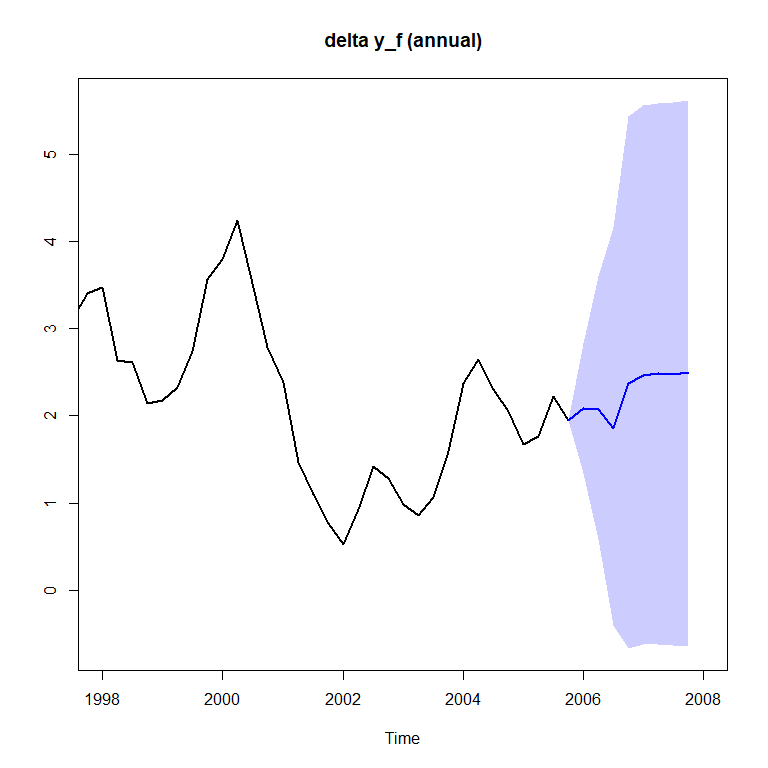
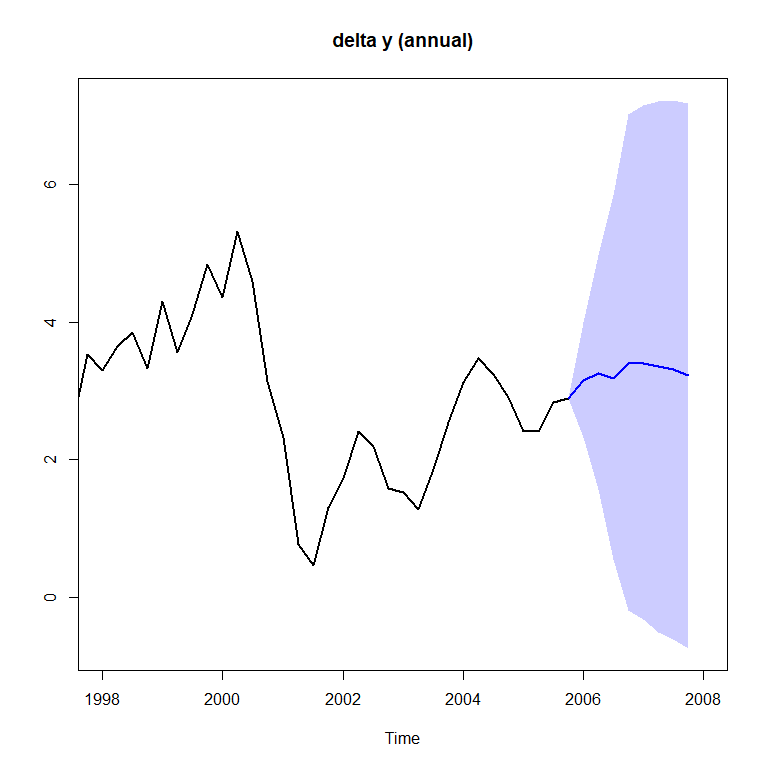
doslad

diff --git a/README.md b/README.md
@@ -105,8 +105,8 @@ $$
 $$
 
 Here $V_0$ is the scale matrix and $m_0\geq k+2$ are the degrees of
-freedom. Since Stan does not allow the usual noninformative prior
-$\left|\Sigma \right|^{-(k+1)/2}$, we will instead specify an
+freedom. Since Stan does not “allow” the usual noninformative prior
+$\left|\Sigma_u \right|^{-(k+1)/2}$, we will instead specify an
 uninformative prior by setting $V_0=(m_0-k-1)\hat{\Sigma}_u$ where
 $\hat{\Sigma}_u$ is the least squares estimate from the VAR($p$)
 (including any potential deterministic regressors), and $m_0=k+2$.
@@ -320,159 +320,176 @@ variables for the future periods and then we fit the model.
 ``` r
 H <- 8
 X_pred <- cbind(rep(1, H), 0)
-fit <- estimate(stan_data, n_chains=4, iter=5000, warmup=2500, H=H, X_pred=X_pred)
+stan_fit <- estimate(stan_data, n_chains=4, iter=5000, warmup=2500, H=H, X_pred=X_pred)
 ```
 
 Let us look at the posterior mean of $\beta$, $\Psi$ and $\Sigma_u$
 
 ``` r
 params <- c("beta", "Psi", "Sigma_u")
-posterior_draws = rstan::extract(fit)
+posterior_draws = rstan::extract(stan_fit)
 
 for (param in params) {
   draws <- posterior_draws[[param]]
   mean_matrix <- round(apply(draws, c(2,3), mean), 2)
-  cat("\n", paste0(param, "_posterior_mean"), "\n")
+  cat("\n", paste0(param, "_posterior_mean (stan estimation)"), "\n")
   print(mean_matrix)
 }
 #> 
-#>  beta_posterior_mean 
+#>  beta_posterior_mean (stan estimation) 
 #>        
 #>          [,1]  [,2]  [,3]  [,4]  [,5]  [,6]  [,7]
 #>    [1,]  0.18  0.03  0.00  0.12  0.08 -0.03  0.00
 #>    [2,] -0.01  0.32  0.07  0.12 -0.09  0.00  0.00
-#>    [3,] -0.01  0.16  0.92 -0.16  0.25  0.04  0.00
+#>    [3,] -0.01  0.16  0.92 -0.16  0.24  0.04  0.00
 #>    [4,]  0.00  0.00  0.00  0.23 -0.09 -0.03  0.00
 #>    [5,]  0.00  0.00  0.00  0.00  0.08  0.02  0.00
-#>    [6,]  0.00  0.00  0.00  0.00  0.09  0.75  0.00
-#>    [7,]  0.00  0.00  0.00  4.80 16.15  0.59  0.95
-#>    [8,]  0.03 -0.01  0.03  0.02 -0.02  0.03  0.00
+#>    [6,]  0.00  0.00  0.00  0.01  0.09  0.75  0.00
+#>    [7,]  0.00  0.00  0.00  4.69 16.28  0.58  0.95
+#>    [8,]  0.03 -0.01  0.03  0.03 -0.02  0.03  0.00
 #>    [9,]  0.00  0.01  0.01  0.00 -0.03 -0.04  0.00
-#>   [10,] -0.07 -0.03 -0.01  0.00  0.18  0.08  0.00
-#>   [11,]  0.00  0.00  0.00  0.12 -0.01  0.05  0.00
+#>   [10,] -0.07 -0.03 -0.01  0.00  0.19  0.08  0.00
+#>   [11,]  0.00  0.00  0.00  0.12 -0.01  0.04  0.00
 #>   [12,]  0.00  0.00  0.00  0.01 -0.05 -0.01  0.00
 #>   [13,]  0.00  0.00  0.00 -0.03  0.05  0.04  0.00
-#>   [14,]  0.00  0.00  0.00  2.16 -1.47  0.34 -0.04
+#>   [14,]  0.00  0.00  0.00  2.26 -1.56  0.34 -0.04
 #>   [15,]  0.01 -0.01  0.00  0.02 -0.02  0.00  0.00
 #>   [16,] -0.02  0.06  0.00  0.00  0.09  0.01  0.00
 #>   [17,] -0.01 -0.01  0.02  0.01  0.01  0.03  0.00
 #>   [18,]  0.00  0.00  0.00  0.07  0.01 -0.01  0.00
 #>   [19,]  0.00  0.00  0.00  0.00  0.02 -0.01  0.00
 #>   [20,]  0.00  0.00  0.00  0.03 -0.02  0.00  0.00
-#>   [21,]  0.00  0.00  0.00 -0.59  0.09 -0.64 -0.01
+#>   [21,]  0.00  0.00  0.00 -0.61  0.07 -0.65 -0.01
 #>   [22,]  0.03 -0.01  0.00 -0.01  0.03  0.01  0.00
 #>   [23,] -0.01  0.17 -0.01  0.00  0.01  0.00  0.00
 #>   [24,]  0.00  0.00 -0.02  0.01 -0.01  0.03  0.00
 #>   [25,]  0.00  0.00  0.00 -0.09  0.01  0.01  0.00
-#>   [26,]  0.00  0.00  0.00  0.00  0.07  0.00  0.00
+#>   [26,]  0.00  0.00  0.00  0.00  0.06  0.00  0.00
 #>   [27,]  0.00  0.00  0.00  0.01 -0.02  0.00  0.00
-#>   [28,]  0.00  0.00  0.00 -0.64 -0.29 -0.20 -0.01
+#>   [28,]  0.00  0.00  0.00 -0.62 -0.28 -0.19 -0.01
 #> 
-#>  Psi_posterior_mean 
+#>  Psi_posterior_mean (stan estimation) 
 #>       
 #>        [,1]  [,2]
 #>   [1,] 2.28  0.33
 #>   [2,] 2.01  1.83
 #>   [3,] 4.93  2.01
-#>   [4,] 2.32 -0.14
-#>   [5,] 1.96  4.56
+#>   [4,] 2.31 -0.14
+#>   [5,] 1.96  4.55
 #>   [6,] 4.29  4.47
-#>   [7,] 3.92 -0.09
+#>   [7,] 3.92 -0.10
 #> 
-#>  Sigma_u_posterior_mean 
+#>  Sigma_u_posterior_mean (stan estimation) 
 #>       
 #>         [,1]  [,2] [,3]  [,4]  [,5]  [,6]  [,7]
-#>   [1,]  2.24 -0.14 0.04  1.05 -0.11  0.01  0.00
-#>   [2,] -0.14  1.27 0.18  0.09  1.76  0.15  0.00
-#>   [3,]  0.04  0.18 0.46  0.04  0.65  0.10  0.00
-#>   [4,]  1.05  0.09 0.04  2.76 -0.67 -0.05  0.00
-#>   [5,] -0.11  1.76 0.65 -0.67  8.43  0.42 -0.01
-#>   [6,]  0.01  0.15 0.10 -0.05  0.42  1.39 -0.01
+#>   [1,]  2.24 -0.13 0.03  1.05 -0.11  0.00  0.00
+#>   [2,] -0.13  1.27 0.18  0.08  1.77  0.15  0.00
+#>   [3,]  0.03  0.18 0.46  0.04  0.66  0.10  0.00
+#>   [4,]  1.05  0.08 0.04  2.76 -0.69 -0.05  0.00
+#>   [5,] -0.11  1.77 0.66 -0.69  8.46  0.42 -0.01
+#>   [6,]  0.00  0.15 0.10 -0.05  0.42  1.39 -0.01
 #>   [7,]  0.00  0.00 0.00  0.00 -0.01 -0.01  0.00
 ```
 
-Lets plot the forecast. Lets select a 95% prediction interval and the
+Lets plot the forecasts. Lets select a 95% prediction interval and the
 mean of the posterior as the point forecast. For the variables in
 annualized quarter on quarter growth rates, we transform the historical
 data and predictions to yearly growth rates.
 
 ``` r
-plot_forecast(stanfit, yt, ci=0.95, fcst_type="mean", growth_rate_idx=c(1,2,4,5))
+plot_forecast(stan_fit,
+              yt,
+              ci=0.95,
+              fcst_type="mean", 
+              growth_rate_idx=c(1,2,4,5),
+              plot_idx=c(4,5,6),
+              gibbs=FALSE)
 ```
 
-<img src="man/figures/README-unnamed-chunk-13-1.png" width="100%" /><img src="man/figures/README-unnamed-chunk-13-2.png" width="100%" /><img src="man/figures/README-unnamed-chunk-13-3.png" width="100%" /><img src="man/figures/README-unnamed-chunk-13-4.png" width="100%" /><img src="man/figures/README-unnamed-chunk-13-5.png" width="100%" /><img src="man/figures/README-unnamed-chunk-13-6.png" width="100%" /><img src="man/figures/README-unnamed-chunk-13-7.png" width="100%" />
+<img src="man/figures/README-unnamed-chunk-13-1.png" width="100%" /><img src="man/figures/README-unnamed-chunk-13-2.png" width="100%" /><img src="man/figures/README-unnamed-chunk-13-3.png" width="100%" />
 
-Lets estimate the model with a Gibbs sampler instead. Everything is the
-same, except we now use the noninformative prior
-$\left|\Sigma \right|^{-(k+1)/2}$
+Lets estimate the model with a Gibbs sampler instead. The priors and
+everything is the same, except for $\Sigma_u$ we now use the
+noninformative prior $\left|\Sigma_u \right|^{-(k+1)/2}$
 
 ``` r
-fit_gibbs <- estimate_gibbs(stan_data, iter=5000, warmup=2500, H=H, X_pred=X_pred)
+gibbs_fit <- estimate_gibbs(stan_data, iter=10000, warmup=5000, H=H, X_pred=X_pred)
 ```
 
-Now lets plot the forecast
+We can check the posterior means
 
 ``` r
-plot_forecast(stanfit=NULL, gibbs=TRUE, res = list(draws = fit_gibbs$fcst_draws), yt, ci=0.95, fcst_type="mean", growth_rate_idx=c(1,2,4,5))
-```
-
-<img src="man/figures/README-unnamed-chunk-15-1.png" width="100%" /><img src="man/figures/README-unnamed-chunk-15-2.png" width="100%" /><img src="man/figures/README-unnamed-chunk-15-3.png" width="100%" /><img src="man/figures/README-unnamed-chunk-15-4.png" width="100%" /><img src="man/figures/README-unnamed-chunk-15-5.png" width="100%" /><img src="man/figures/README-unnamed-chunk-15-6.png" width="100%" /><img src="man/figures/README-unnamed-chunk-15-7.png" width="100%" />
-
-And we can check the posterior means
-
-``` r
-print("beta posterior mean")
-#> [1] "beta posterior mean"
-round(fit_gibbs$beta_post_mean,2)
+for (i in seq_along(params)) {
+  param <- params[i]
+  cat("\n", paste0(param, "_posterior_mean (gibbs sampler)"), "\n", "\n")
+  print(round(gibbs_fit[[i + 1]], 2))
+}
+#> 
+#>  beta_posterior_mean (gibbs sampler) 
+#>  
 #>        [,1]  [,2]  [,3]  [,4]  [,5]  [,6]  [,7]
-#>  [1,]  0.17  0.03  0.00  0.12  0.07 -0.03  0.00
-#>  [2,] -0.01  0.32  0.06  0.12 -0.09  0.00  0.00
-#>  [3,] -0.02  0.15  0.92 -0.16  0.24  0.04  0.00
-#>  [4,]  0.00  0.00  0.00  0.23 -0.09 -0.02  0.00
-#>  [5,]  0.00  0.00  0.00  0.00  0.07  0.02  0.00
-#>  [6,]  0.00  0.00  0.00  0.01  0.08  0.76  0.00
-#>  [7,]  0.00  0.00  0.00  4.71 15.67  0.55  0.95
-#>  [8,]  0.03 -0.01  0.02  0.02 -0.01  0.03  0.00
-#>  [9,]  0.00  0.02  0.01  0.00 -0.02 -0.04  0.00
-#> [10,] -0.07 -0.03  0.00  0.00  0.18  0.07  0.00
+#>  [1,]  0.18  0.03  0.00  0.12  0.07 -0.03  0.00
+#>  [2,] -0.02  0.32  0.06  0.12 -0.08  0.00  0.00
+#>  [3,] -0.01  0.16  0.92 -0.15  0.23  0.05  0.00
+#>  [4,]  0.00  0.00  0.00  0.23 -0.09 -0.03  0.00
+#>  [5,]  0.00  0.00  0.00  0.00  0.08  0.02  0.00
+#>  [6,]  0.00  0.00  0.00  0.01  0.09  0.76  0.00
+#>  [7,]  0.00  0.00  0.00  4.64 15.63  0.58  0.95
+#>  [8,]  0.03 -0.01  0.02  0.02 -0.02  0.03  0.00
+#>  [9,]  0.00  0.02  0.01  0.00 -0.03 -0.04  0.00
+#> [10,] -0.07 -0.03 -0.01  0.00  0.18  0.07  0.00
 #> [11,]  0.00  0.00  0.00  0.12 -0.01  0.04  0.00
 #> [12,]  0.00  0.00  0.00  0.01 -0.04 -0.01  0.00
 #> [13,]  0.00  0.00  0.00 -0.03  0.05  0.04  0.00
-#> [14,]  0.00  0.00  0.00  2.16 -1.25  0.26 -0.04
+#> [14,]  0.00  0.00  0.00  2.11 -1.50  0.28 -0.04
 #> [15,]  0.01 -0.01  0.00  0.02 -0.01  0.00  0.00
-#> [16,] -0.02  0.06  0.00  0.00  0.08  0.01  0.00
+#> [16,] -0.02  0.06  0.00  0.00  0.09  0.01  0.00
 #> [17,] -0.01  0.00  0.02  0.01  0.01  0.03  0.00
 #> [18,]  0.00  0.00  0.00  0.07  0.01 -0.01  0.00
 #> [19,]  0.00  0.00  0.00  0.00  0.02  0.00  0.00
 #> [20,]  0.00  0.00  0.00  0.03 -0.01  0.00  0.00
-#> [21,]  0.00  0.00  0.00 -0.51  0.17 -0.56 -0.01
-#> [22,]  0.03 -0.01  0.00 -0.01  0.02  0.01  0.00
+#> [21,]  0.00  0.00  0.00 -0.54  0.06 -0.57 -0.01
+#> [22,]  0.03 -0.01  0.00 -0.01  0.03  0.00  0.00
 #> [23,] -0.01  0.16 -0.01  0.00  0.01  0.00  0.00
 #> [24,]  0.00  0.00 -0.02  0.01 -0.01  0.03  0.00
 #> [25,]  0.00  0.00  0.00 -0.08  0.01  0.01  0.00
 #> [26,]  0.00  0.00  0.00  0.00  0.06  0.00  0.00
 #> [27,]  0.00  0.00  0.00  0.01 -0.02  0.00  0.00
-#> [28,]  0.00  0.00  0.00 -0.57 -0.31 -0.15 -0.01
-print("Psi posterior mean")
-#> [1] "Psi posterior mean"
-round(fit_gibbs$Psi_post_mean,2)
+#> [28,]  0.00  0.00  0.00 -0.59 -0.18 -0.18 -0.01
+#> 
+#>  Psi_posterior_mean (gibbs sampler) 
+#>  
 #>      [,1]  [,2]
-#> [1,] 2.30  0.33
-#> [2,] 2.01  1.85
-#> [3,] 4.93  2.01
-#> [4,] 2.31 -0.15
-#> [5,] 1.96  4.58
-#> [6,] 4.29  4.48
+#> [1,] 2.29  0.30
+#> [2,] 2.01  1.86
+#> [3,] 4.94  2.00
+#> [4,] 2.31 -0.13
+#> [5,] 1.97  4.59
+#> [6,] 4.29  4.46
 #> [7,] 3.92 -0.10
-print("Sigma_u posterior mean")
-#> [1] "Sigma_u posterior mean"
-round(fit_gibbs$Sigma_u_post_mean,2)
+#> 
+#>  Sigma_u_posterior_mean (gibbs sampler) 
+#>  
 #>       [,1]  [,2] [,3]  [,4]  [,5]  [,6]  [,7]
-#> [1,]  2.44 -0.15 0.05  1.15 -0.12  0.00  0.00
-#> [2,] -0.15  1.42 0.20  0.10  1.97  0.17  0.00
-#> [3,]  0.05  0.20 0.50  0.05  0.71  0.11  0.00
-#> [4,]  1.15  0.10 0.05  3.08 -0.78 -0.05  0.00
-#> [5,] -0.12  1.97 0.71 -0.78  9.35  0.45 -0.01
-#> [6,]  0.00  0.17 0.11 -0.05  0.45  1.52 -0.01
+#> [1,]  2.45 -0.16 0.04  1.15 -0.14  0.01  0.00
+#> [2,] -0.16  1.41 0.20  0.09  1.96  0.16  0.00
+#> [3,]  0.04  0.20 0.50  0.04  0.70  0.11  0.00
+#> [4,]  1.15  0.09 0.04  3.05 -0.76 -0.06  0.00
+#> [5,] -0.14  1.96 0.70 -0.76  9.28  0.46 -0.01
+#> [6,]  0.01  0.16 0.11 -0.06  0.46  1.53 -0.01
 #> [7,]  0.00  0.00 0.00  0.00 -0.01 -0.01  0.00
 ```
+
+Very similar to the stan estimation. Now lets plot the forecasts
+
+``` r
+plot_forecast(gibbs_fit,
+              yt,
+              ci=0.95,
+              fcst_type="mean", 
+              growth_rate_idx=c(1,2,4,5),
+              plot_idx=c(4,5,6),
+              gibbs=TRUE)
+```
+
+<img src="man/figures/README-unnamed-chunk-16-1.png" width="100%" /><img src="man/figures/README-unnamed-chunk-16-2.png" width="100%" /><img src="man/figures/README-unnamed-chunk-16-3.png" width="100%" />
